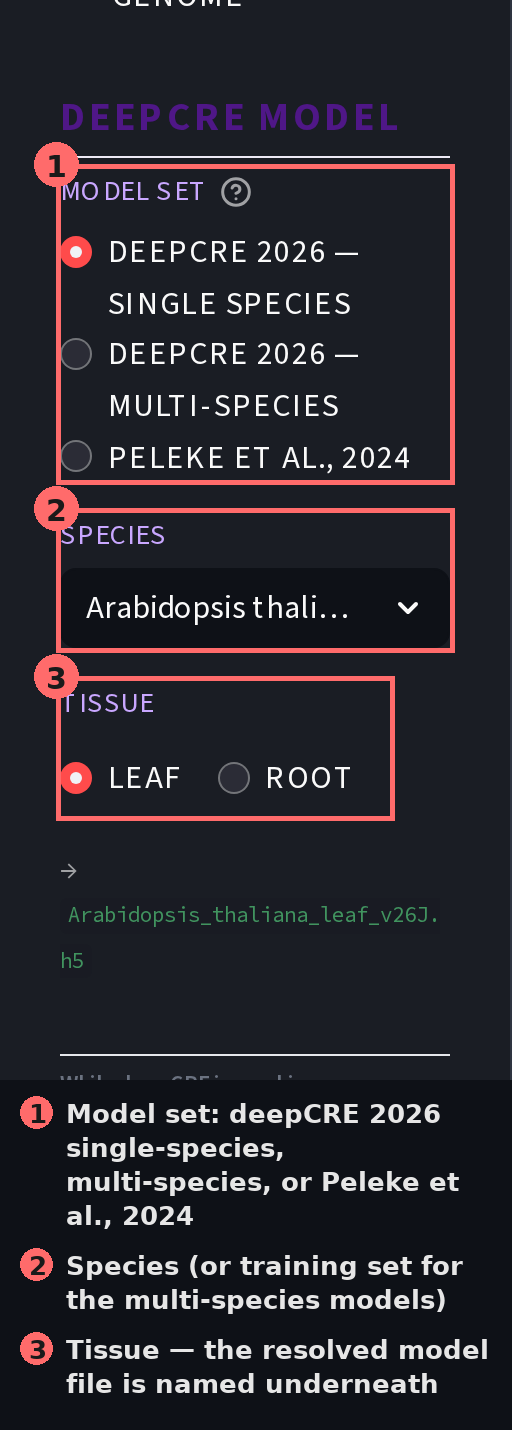
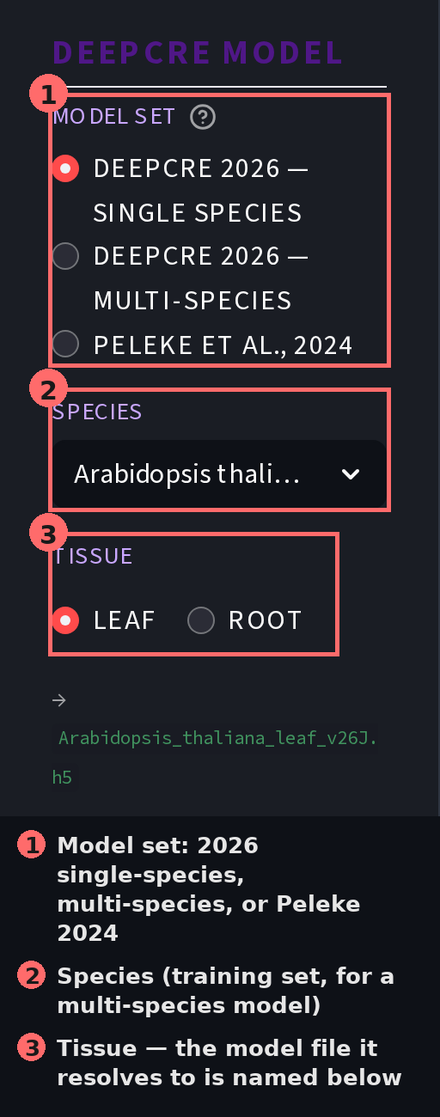
Type the mutation coordinates; shrink the model-picker guide
Coordinate entry
----------------
The coordinate range could only be dragged. The Mutation tab now also takes
typed coordinates, in either of two systems:

  deepCRE window (1-3020)  positions in the model input itself
  Genomic (1-based)        positions as a GFF, a VCF or a genome browser gives
                           them, converted to the window for the selected gene

A caption above the entry shows the current slider range in both systems, so
the conversion is visible rather than implied. The typed range is written back
into the slider through the pending-widget-state queue, and the region radio
follows it, since a range belongs to exactly one of gUR/gTUR/gTDR/gDR.

Warnings, rather than a silently clamped range, for: a value that is not a
whole number; a window position outside 1-3020; a genomic position outside the
two blocks the window covers (the message names both blocks); a range touching
the central N-padding; and a range spanning two regions, which the editor
cannot represent.

The mapping is in lib/utils.py as genomic_from_window() / window_from_genomic(),
derived from how prepare_dataset() builds the window, including the reversal on
the minus strand. test_window_coords.0.py round-trips every position of both
strands on long and short genes, and checks the result against the arithmetic
the VCF path already uses.

That comparison found a pre-existing off-by-one in the VCF path, left as it is
[…]

Changed region(s): [[0.0591, 0.0304, 0.8864, 0.7001], [0.0295, 0.7305, 0.9455, 0.974], [0.975, 0.7305, 1.0, 0.761]]

diff --git a/lib/ui/mutation.py b/lib/ui/mutation.py
@@ -6,7 +6,8 @@ import altair as alt
 import numpy as np
 import pandas as pd
 import streamlit as st
-from lib.utils import normalize_sequence
+from lib.utils import normalize_sequence, genomic_from_window, window_from_genomic
+from lib.ui.sidebar import request_widget_state
 from lib.storage import currentModelId
 
 # ── Shared style helpers ──────────────────────────────────────────────────────
@@ -105,10 +106,171 @@ def choose_analysis_type() -> str:
 
     return mode
 
+# ── Typing the coordinates instead of dragging them ──────────────────────────
+
+WINDOW_SYSTEM = "deepCRE window (1–3020)"
+GENOMIC_SYSTEM = "Genomic"
+
+
+def _window_regions(utr_len: int, central_pad_size: int) -> dict:
+    """1-based window spans of the four editable regions, in window order."""
+    return {
+        "gUR":  (1, 1000),
+        "gTUR": (1001, 1000 + utr_len),
+        "gTDR": (1001 + utr_len + central_pad_size,
+                 1000 + (2 * utr_len) + central_pad_size),
+        "gDR":  (1001 + (2 * utr_len) + central_pad_size,
+                 2000 + (2 * utr_len) + central_pad_size),
+    }
+
+
+def _parse_coord(text: str):
+    """Read a coordinate the way a user pastes it: 20,135,343 / 20 135 343."""
+    cleaned = str(text).strip().replace(",", "").replace("_", "").replace(" ", "")
+    if not cleaned:
+        return None
+    try:
+        return int(cleaned)
+    except ValueError:
+        return None
+
+
+def _resolve_typed_range(first: int, second: int, system: str, start: int,
+                         end: int, strand: str, utr_len: int,
+                         central_pad_size: int):
+    """Typed pair -> (window_from, window_to, region, error).
+
+    Returns the error as a sentence for st.warning; on success error is None.
+    Genomic input is mapped through window_from_genomic(), so a minus-strand
+    gene -- where rising genomic coordinates run backwards through the window --
+    needs no special handling here beyond re-ordering the two ends.
+    """
+    size = 2 * (1000 + utr_len) + central_pad_size
+    regions = _window_regions(utr_len, central_pad_size)
+
+    if system == WINDOW_SYSTEM:
+        for value in (first, second):
+            if not 1 <= value <= size:
+                return None, None, None, (
+                    f"{value:,} is outside the deepCRE window, which runs from "
+                    f"1 to {size:,}.")
+        w_from, w_to = first, second
+    else:
+        prom = (start - 1000 + 1, start + utr_len)
+        term = (end - utr_len + 1, end + 1000)
+        mapped = []
+        for value in (first, second):
+            w = window_from_genomic(value, start, end, strand, utr_len,
+                                    central_pad_size)
+            if w is None:
+                return None, None, None, (
+                    f"{value:,} is not inside the sequence this gene's window "
+                    f"covers. The window holds {prom[0]:,}–{prom[1]:,} "
+                    f"(1,000 bp upstream of the gene plus {utr_len} bp into it) "
+                    f"and {term[0]:,}–{term[1]:,} ({utr_len} bp before the gene "
+                    f"end plus 1,000 bp downstream).")
+            mapped.append(w)
+        w_from, w_to = mapped
+
+    if w_from > w_to:
+        w_from, w_to = w_to, w_from
+
+    pad_from, pad_to = 1001 + utr_len, 1000 + utr_len + central_pad_size
+    if central_pad_size and not (w_to < pad_from or w_from > pad_to):
+        return None, None, None, (
+            f"Window positions {pad_from:,}–{pad_to:,} are the N-padding "
+            f"between the two halves of the window and cannot be edited. "
+            f"The range given covers {w_from:,}–{w_to:,}.")
+
+    holding = [name for name, (lo, hi) in regions.items()
+               if lo <= w_from <= hi and lo <= w_to <= hi]
+    if not holding:
+        spanned = [name for name, (lo, hi) in regions.items()
+                   if not (w_to < lo or w_from > hi)]
+        return None, None, None, (
+            f"The range {w_from:,}–{w_to:,} spans "
+            f"{' and '.join(spanned)}. Only one region can be edited at a time; "
+            f"please give a range inside a single region.")
+
+    return w_from, w_to, holding[0], None
+
+
+def _typed_coordinates(start: int, end: int, strand: str, chrom: str,
+                       utr_len: int, central_pad_size: int, sel_region: str,
+                       slider_vals) -> None:
+    """Text entry for the coordinate range, in window or genomic coordinates.
+
+    The slider above is the quick way; this is the exact way, for a user who has
+    a position from a browser, a GFF or a VCF. The typed range is written back
+    into the slider (and the region radio) through the pending-widget-state
+    queue, because Streamlit does not allow a widget's value to be set after it
+    has been instantiated in the same run.
+    """
+    genomic_label = "Genomic (1-based)"
+
+    # What the slider currently holds, in both systems, so the two are tied
+    # together visibly rather than the user having to trust the conversion.
+    g_lo = genomic_from_window(slider_vals[0], start, end, strand, utr_len,
+                               central_pad_size)
+    g_hi = genomic_from_window(slider_vals[1], start, end, strand, utr_len,
+                               central_pad_size)
+    if g_lo is not None and g_hi is not None:
+        lo, hi = sorted((g_lo, g_hi))
+        where = f"{chrom}:" if chrom else ""
+        st.caption(f"Window {slider_vals[0]:,}–{slider_vals[1]:,} "
+                   f"= {where}{lo:,}–{hi:,} ({strand} strand)")
+
+    if st.session_state.get("mut_coord_notice"):
+        st.success(st.session_state.pop("mut_coord_notice"), icon="✅")
+
+    with st.expander("Type the coordinates instead"):
+        system = st.radio(
+            "Coordinate system", (WINDOW_SYSTEM, genomic_label),
+            key="mut_coord_system",
+            help="deepCRE coordinates run 1–3020 across the model window. "
+                 "Genomic coordinates are the positions on "
+                 + (f"chromosome {chrom}" if chrom else "the chromosome")
+                 + ", as a GFF, a VCF or a genome browser gives them; they are "
+                   "converted to the window for this gene.",
+        )
+        col_from, col_to = st.columns(2)
+        from_txt = col_from.text_input("From", key="mut_coord_from",
+                                       placeholder="e.g. 1001")
+        to_txt = col_to.text_input("To", key="mut_coord_to",
+                                   placeholder="e.g. 1500")
+
+        if st.button("Set range", key="mut_coord_set"):
+            first, second = _parse_coord(from_txt), _parse_coord(to_txt)
+            if first is None or second is None:
+                missing = [lab for lab, v in (("From", first), ("To", second))
+                           if v is None]
+                st.warning(f"Please give a whole number for "
+                           f"{' and '.join(missing)}.", icon="⚠")
+                return
+            w_from, w_to, region, error = _resolve_typed_range(
+                first, second, WINDOW_SYSTEM if system == WINDOW_SYSTEM
+                else GENOMIC_SYSTEM,
+                start, end, strand, utr_len, central_pad_size)
+            if error:
+                st.warning(error, icon="⚠")
+                return
+            request_widget_state(mut_region_selection=region,
+                                 mut_coord_slider=(w_from, w_to))
+            note = f"Range set to {w_from:,}–{w_to:,} in {region}."
+            if region != sel_region:
+                note += f" The region was switched from {sel_region} to {region}."
+            if system != WINDOW_SYSTEM:
+                note += (f" ({first:,}–{second:,} on {chrom or 'the chromosome'} "
+                         f"maps there on the {strand} strand.)")
+            st.session_state.mut_coord_notice = note
+            st.rerun()
+
+
 # ── Manual mutation UI ────────────────────────────────────────────────────────
 
 def show_manual_mutation(gene_id: str, start: int, end: int,
-                         seq: str, utr_len: int, central_pad_size: int):
+                         seq: str, utr_len: int, central_pad_size: int,
+                         strand: str = "+", chrom: str = ""):
     # --- Tutorial Shortcut for Manual Mode ---
     st.info("**Tutorial Shortcut:** See the **Tutorial** tab for full context, or load the demo sequence right here.", icon="ℹ")
     if st.session_state.get("tutorial_mutation_active"):
@@ -166,6 +328,9 @@ def show_manual_mutation(gene_id: str, start: int, end: int,
                 key="mut_coord_slider"
             )
             st.form_submit_button("Apply", type="primary")
+
+        _typed_coordinates(start, end, strand, chrom, utr_len, central_pad_size,
+                           sel_region, slider_vals)
 
     mut_reg_start, mut_reg_end = slider_vals
     mut_reg_start -= 1

diff --git a/lib/utils.py b/lib/utils.py
@@ -239,3 +239,60 @@ def check_file(file, file_type):
         return_file = None
         st.error(f":red[The uploaded {file_type} file is empty. Please verify !]", icon="⚠")
     return return_file
+
+
+# ── deepCRE window <-> genomic coordinates ───────────────────────────────────
+#
+# prepare_dataset() builds the 3020 bp input as
+#     +  strand: promoter | N-pad | terminator
+#     -  strand: revcomp(terminator) | N-pad | revcomp(promoter)
+# with promoter = [start - 1000, start + utr_len) and
+#      terminator = [end - utr_len, end + 1000), both 0-based half-open, and
+# start/end as read_gene_models() returns them (GFF start already made 0-based).
+#
+# The two helpers below are the only place that mapping is written down for the
+# interface. They work in 1-based coordinates in both directions, because that
+# is what a user reads off a genome browser, a GFF or a VCF: window position 1
+# is the first base of the gUR, and genomic position g is the g-th base of the
+# chromosome. Positions in the central N-pad have no genomic counterpart and
+# give None; genomic positions outside the two extracted blocks likewise.
+#
+# The arithmetic agrees with the VCF path in app.py, which maps variant
+# positions into the same window; test_window_coords.0.py checks that on every
+# position of both strands.
+
+def genomic_from_window(window_pos: int, start: int, end: int, strand: str,
+                        utr_len: int, central_pad_size: int):
+    """1-based window position -> 1-based genomic position, or None in the pad."""
+    i = int(window_pos) - 1
+    if not 0 <= i < 2 * (1000 + utr_len) + central_pad_size:
+        return None
+    left_len = 1000 + utr_len                 # promoter (+) or terminator (-)
+    right_from = left_len + central_pad_size
+    if i < left_len:
+        p0 = (start - 1000 + i) if strand == "+" else (end + 999 - i)
+    elif i < right_from:
+        return None                           # central N-pad
+    else:
+        k = i - right_from
+        p0 = (end - utr_len + k) if strand == "+" else (start + utr_len - 1 - k)
+    return p0 + 1
+
+
+def window_from_genomic(genomic_pos: int, start: int, end: int, strand: str,
+                        utr_len: int, central_pad_size: int):
+    """1-based genomic position -> 1-based window position, or None if outside."""
+    p0 = int(genomic_pos) - 1
+    left_len = 1000 + utr_len
+    right_from = left_len + central_pad_size
+    in_prom = start - 1000 <= p0 < start + utr_len
+    in_term = end - utr_len <= p0 < end + 1000
+    if not (in_prom or in_term):
+        return None
+    if strand == "+":
+        i = (p0 - start + 1000) if in_prom else (right_from + p0 - end + utr_len)
+    else:
+        i = (end + 999 - p0) if in_term else (right_from + start + utr_len - 1 - p0)
+    if not 0 <= i < 2 * (1000 + utr_len) + central_pad_size:
+        return None
+    return i + 1

diff --git a/app.py b/app.py
@@ -194,7 +194,8 @@ def _render_dataset_banner(genome, annotation, genes_list, use_example, selected
             )
 
 
-def _handle_manual_mutation(gene_ids, gene_starts, gene_ends, x, progress_marker) -> None:
+def _handle_manual_mutation(gene_ids, gene_starts, gene_ends, gene_chroms,
+                            gene_strands, x, progress_marker) -> None:
     gene_col, _ = st.columns([0.3, 0.7])
     with gene_col:
         # The tutorial asks for a specific gene (AT1G67090 for the promoter swap)
@@ -214,7 +215,8 @@ def _handle_manual_mutation(gene_ids, gene_starts, gene_ends, x, progress_marker
     central_pad_size = 3020 - (1000 + utr_len) * 2
 
     mut_reg_start, mut_reg_end = show_manual_mutation(
-        gene_id, start, end, seq, utr_len, central_pad_size
+        gene_id, start, end, seq, utr_len, central_pad_size,
+        strand=gene_strands[idx], chrom=gene_chroms[idx],
     )
 
     # Guard: the model only accepts sequences of exactly the original length.
@@ -403,7 +405,8 @@ def _mutation_tab(gene_ids, gene_starts, gene_ends, gene_chroms, gene_strands, x
     """
     mutate_analysis_type = choose_analysis_type()
     if mutate_analysis_type == "**manual**":
-        _handle_manual_mutation(gene_ids, gene_starts, gene_ends, x, None)
+        _handle_manual_mutation(gene_ids, gene_starts, gene_ends, gene_chroms,
+                                gene_strands, x, None)
     else:
         _handle_vcf_mutation(
             gene_ids, gene_starts, gene_ends,

diff --git a/lib/ui/tutorial.py b/lib/ui/tutorial.py
@@ -192,7 +192,7 @@ def show_tutorial_tab():
         st.markdown("---")
 
         st.write("Once the genes are loaded, the sidebar shows the selection and can still be changed:")
-        _figure('images/guide_02_model.png', width="stretch")
+        _figure('images/guide_02_model.png', width=380)  # a narrow sidebar strip; stretching it blows it up
 
         st.write("Alternatively, the user can always select 100 random genes from a selected genome in the sidebar.")
         
